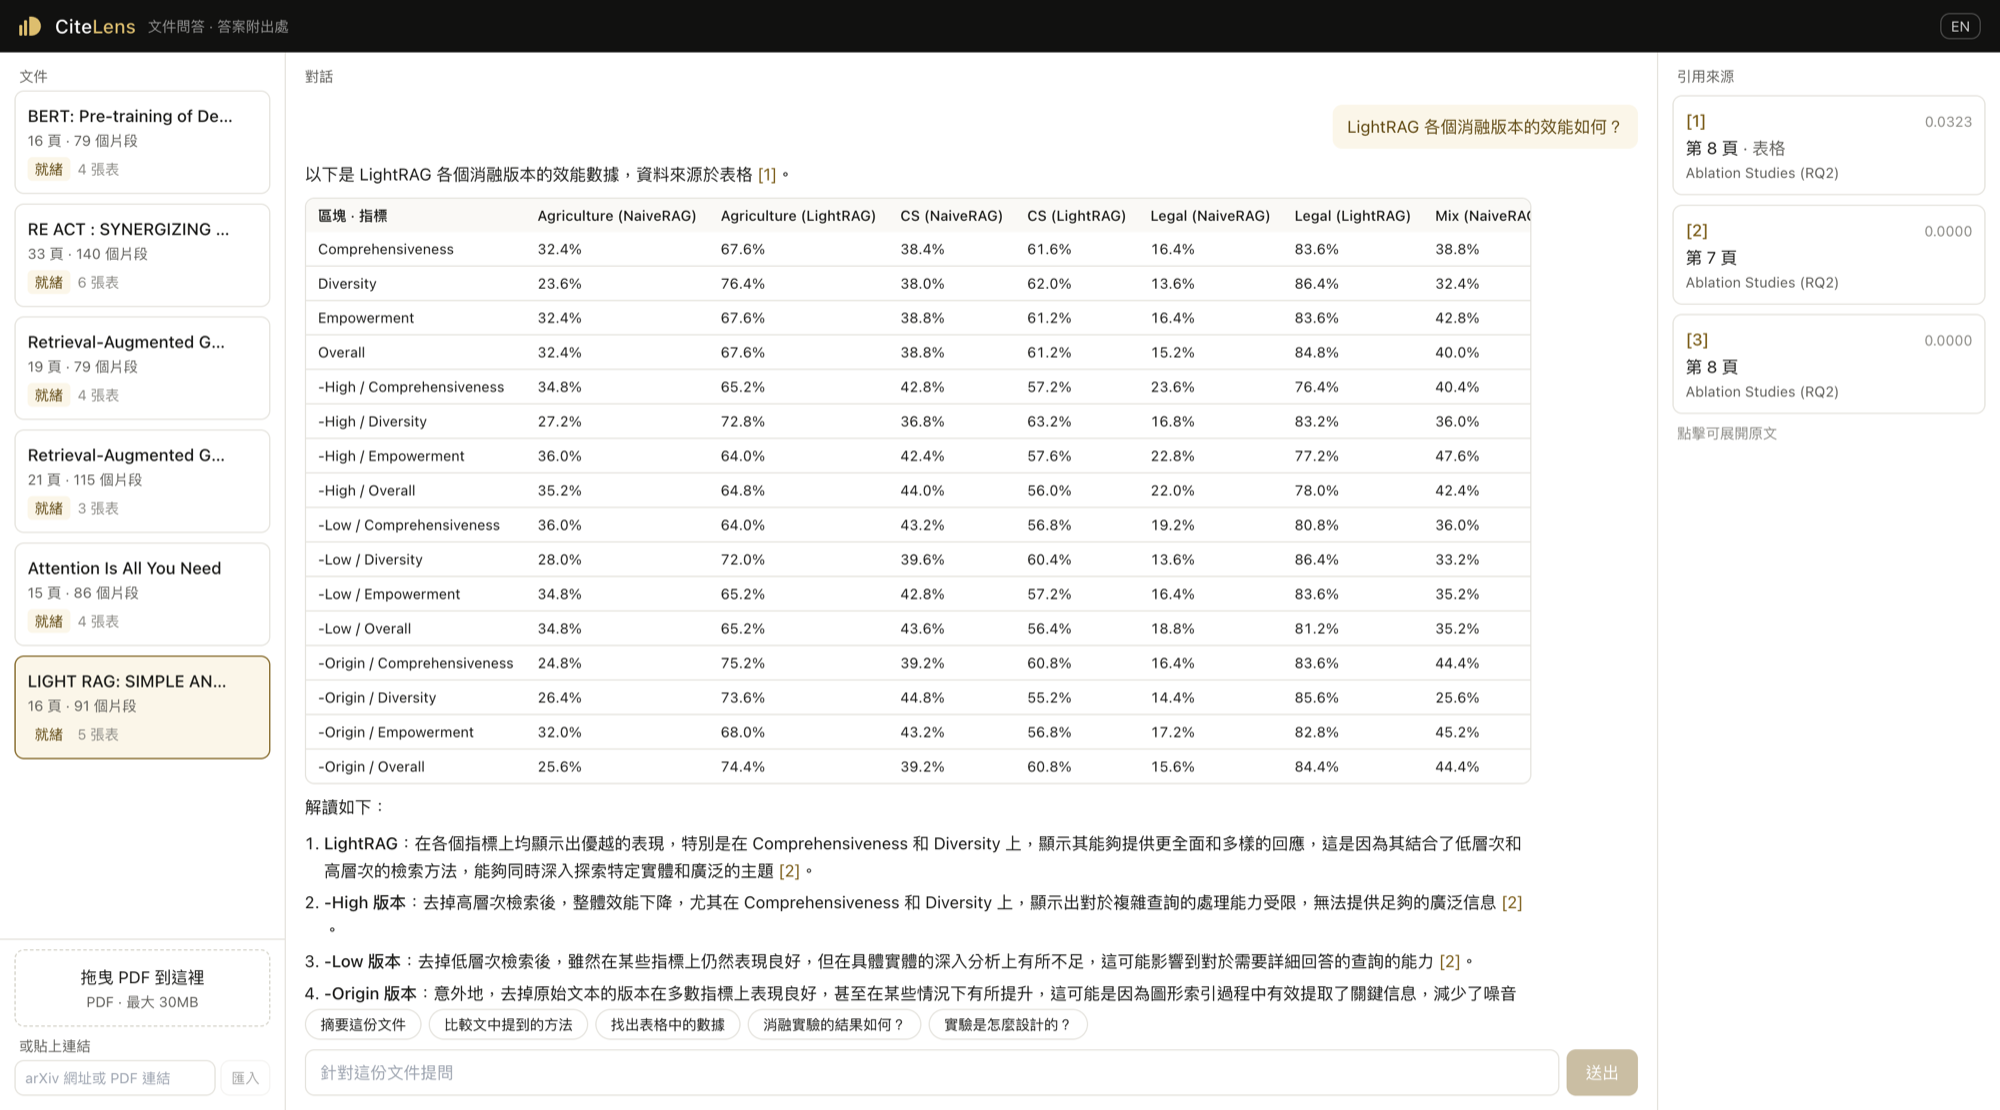
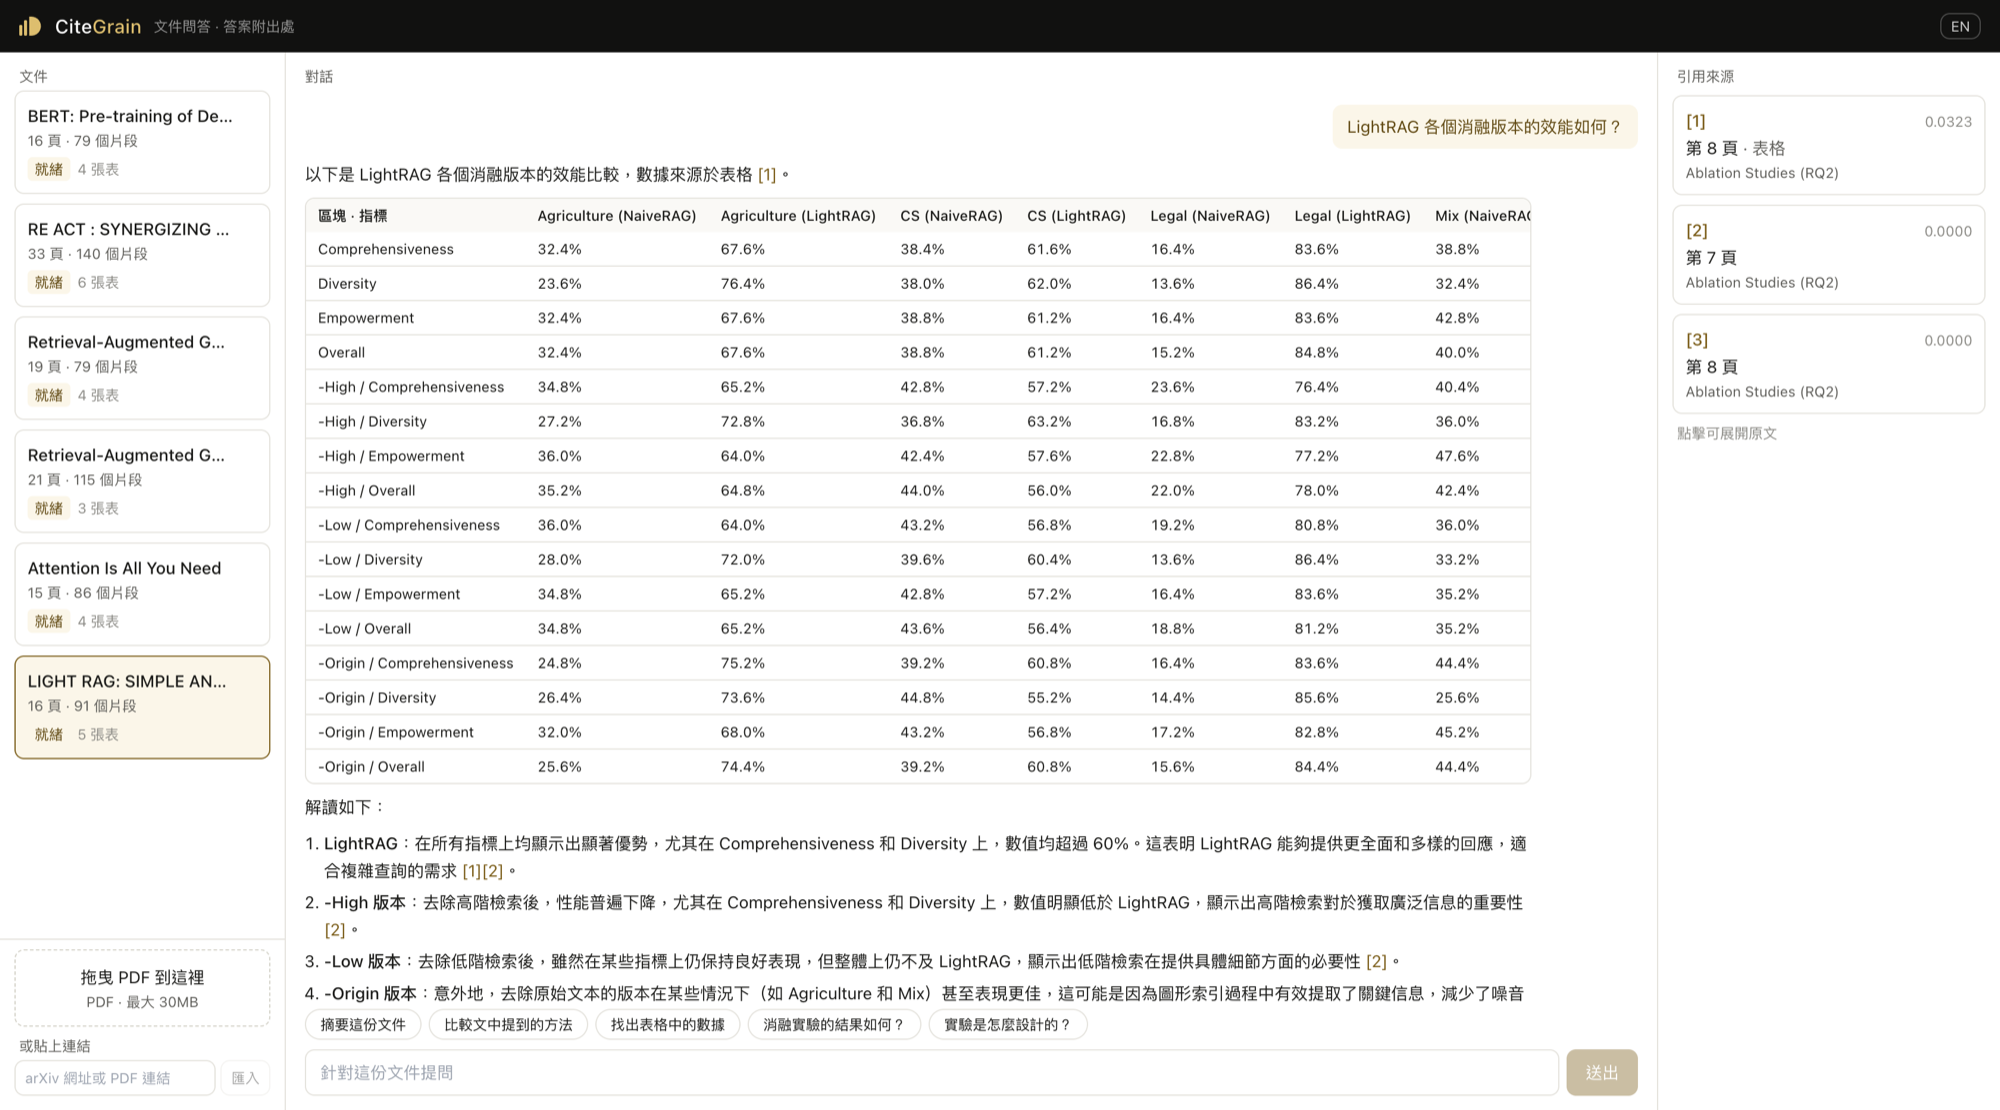
專案更名為 CiteGrain
CiteLens 撞名嚴重且都在同一個領域：MDPI 的學術引用偵測工具、
citelens.ai 的 GEO 平台。新名字取 citation granularity ——
這個系統引用到的不是「這份文件」，而是第幾頁、哪一節、表格的哪一列。

查證方式：網域（7 個 TLD）、GitHub / PyPI / npm、arXiv 與 ACL、
以及在地搜尋結果，四關皆空。過程中淘汰的候選包括撞到藥名的
（Refentra、Siglume、Siglade、Citelexa）與撞到既有 benchmark 的（TabCite）。

- 指標名稱 citelens_* → citegrain_*，Grafana 儀表板查詢同步更新
- 儀表板檔名與 Prometheus job 名稱一併更名
- 前端字樣、標題、sessionStorage 鍵、MCP server 名稱
- Demo 截圖重拍（實際跑一次指定的第三題）

順帶修掉一個一直存在的問題：index.html 從來沒有 <link rel="icon">，
所以分頁一直沒有圖示，而 public/favicon.svg 裡放的是 Vite 的預設圖。
現在改成專案自己的標記並正確引用。

驗證：68 項測試、端到端 76 項、check_docs、中英文簡報各 16 頁無溢出、
tsc -b 通過；具名卷未動，6 份既有索引與指標歷史保留。

diff --git a/frontend/src/App.tsx b/frontend/src/App.tsx
@@ -5,8 +5,8 @@ import { Chat, type Turn } from "./components/Chat";
 import { DocumentPanel, type Job } from "./components/DocumentPanel";
 import { SourcePanel } from "./components/SourcePanel";
 
-const LANG_KEY = "citelens.lang";
-const HISTORY_KEY = "citelens.history";
+const LANG_KEY = "citegrain.lang";
+const HISTORY_KEY = "citegrain.history";
 
 export default function App() {
   const [lang, setLang] = useState<Lang>(
@@ -234,7 +234,7 @@ export default function App() {
       <header className="flex items-center gap-2.5 px-4 py-2.5 bg-brand text-white">
         <Mark />
         <h1 className="text-base font-medium tracking-wide">
-          Cite<span className="text-accent-gold">Lens</span>
+          Cite<span className="text-accent-gold">Grain</span>
         </h1>
         <span className="text-xs text-white/55">{t.subtitle}</span>
         <button

diff --git a/frontend/index.html b/frontend/index.html
@@ -2,9 +2,9 @@
 <html lang="zh-Hant">
   <head>
     <meta charset="UTF-8" />
-    
+    <link rel="icon" type="image/svg+xml" href="/favicon.svg" />
     <meta name="viewport" content="width=device-width, initial-scale=1.0" />
-    <title>CiteLens · 文件問答</title>
+    <title>CiteGrain · 文件問答</title>
   </head>
   <body>
     <div id="root"></div>

diff --git a/ops/build_dashboard.py b/ops/build_dashboard.py
@@ -41,7 +41,7 @@ TOOLTIP = {"mode": "multi", "sort": "desc"}
 panels = [
     # ── 第一列：品質指標（離線評估）─────────────────────────────
     panel(1, "檢索準確度",
-          [target("citelens_eval_top3_rate", "{{config}}", instant=True)],
+          [target("citegrain_eval_top3_rate", "{{config}}", instant=True)],
           0, 0, 9, 7, "bargauge",
           desc="12 個測試問題中，目標章節進入前三名的比例。由 scripts/eval.py --publish 發布。",
           options={"displayMode": "basic", "orientation": "horizontal",
@@ -57,7 +57,7 @@ panels = [
                        "overrides": []}),
 
     panel(2, "表格解析結果",
-          [target("citelens_eval_tables", "{{state}}", instant=True)],
+          [target("citegrain_eval_tables", "{{state}}", instant=True)],
           9, 0, 8, 7, "bargauge",
           desc="四篇論文合計。數值型表格全數通過驗證；未通過者退回整表原文模式。",
           options={"displayMode": "basic", "orientation": "horizontal",
@@ -69,8 +69,8 @@ panels = [
                        "overrides": []}),
 
     panel(3, "有作答時的引用標註率",
-          [target('sum(citelens_answer_outcome_total{outcome="cited"}) / '
-                  'sum(citelens_answer_outcome_total{outcome=~"cited|uncited"})',
+          [target('sum(citegrain_answer_outcome_total{outcome="cited"}) / '
+                  'sum(citegrain_answer_outcome_total{outcome=~"cited|uncited"})',
                   "引用率", instant=True)],
           17, 0, 7, 7, "stat",
           desc="分母排除「文件未涵蓋」的正確拒答 —— 那類回答沒有可標註的來源。",
@@ -86,21 +86,21 @@ panels = [
 
     # ── 第二列：延遲 ──────────────────────────────────────────
     panel(4, "查詢量（依路由）",
-          [target("sum by (route) (increase(citelens_query_total[5m]))", "{{route}}")],
+          [target("sum by (route) (increase(citegrain_query_total[5m]))", "{{route}}")],
           0, 7, 8, 7, desc="三條路由各自的查詢量。分流有效時三者都會有量。",
           options={"legend": LEGEND, "tooltip": TOOLTIP},
           fieldConfig=series("short", decimals=0)),
 
     panel(5, "端到端延遲",
-          [target("histogram_quantile(0.5, sum(rate(citelens_request_seconds_bucket[10m])) by (le))", "p50"),
-           target("histogram_quantile(0.95, sum(rate(citelens_request_seconds_bucket[10m])) by (le))", "p95")],
+          [target("histogram_quantile(0.5, sum(rate(citegrain_request_seconds_bucket[10m])) by (le))", "p50"),
+           target("histogram_quantile(0.95, sum(rate(citegrain_request_seconds_bucket[10m])) by (le))", "p95")],
           8, 7, 8, 7, desc="使用者感受到的總時間。",
           options={"legend": LEGEND, "tooltip": TOOLTIP},
           fieldConfig=series("s", decimals=1)),
 
     panel(6, "延遲拆解：檢索 vs 生成",
-          [target("histogram_quantile(0.95, sum(rate(citelens_retrieval_seconds_bucket[10m])) by (le))", "檢索 p95"),
-           target("histogram_quantile(0.95, sum(rate(citelens_llm_seconds_bucket[10m])) by (le))", "生成 p95")],
+          [target("histogram_quantile(0.95, sum(rate(citegrain_retrieval_seconds_bucket[10m])) by (le))", "檢索 p95"),
+           target("histogram_quantile(0.95, sum(rate(citegrain_llm_seconds_bucket[10m])) by (le))", "生成 p95")],
           16, 7, 8, 7,
           desc="檢索貼著底部、生成在數秒之譜 —— 瓶頸在模型不在檢索。",
           options={"legend": LEGEND, "tooltip": TOOLTIP},
@@ -108,8 +108,8 @@ panels = [
 
     # ── 第三列：預算與成本 ────────────────────────────────────
     panel(7, "脈絡用量（上限 6,000 tokens）",
-          [target("histogram_quantile(0.5, sum(rate(citelens_context_tokens_bucket[10m])) by (le))", "p50"),
-           target("histogram_quantile(0.95, sum(rate(citelens_context_tokens_bucket[10m])) by (le))", "p95")],
+          [target("histogram_quantile(0.5, sum(rate(citegrain_context_tokens_bucket[10m])) by (le))", "p50"),
+           target("histogram_quantile(0.95, sum(rate(citegrain_context_tokens_bucket[10m])) by (le))", "p95")],
           0, 14, 9, 7,
           desc="檢索內容實際佔用的 token 數。不含系統提示與問題 —— "
                "那兩項另有保留額度，合計才是模型的 10,000 上限。",
@@ -125,8 +125,8 @@ panels = [
                        "overrides": []}),
 
     panel(8, "累計成本與查詢次數",
-          [target("citelens_cost_usd_total", "累計成本（USD）", instant=True),
-           target("sum(citelens_query_total)", "查詢次數", instant=True)],
+          [target("citegrain_cost_usd_total", "累計成本（USD）", instant=True),
+           target("sum(citegrain_query_total)", "查詢次數", instant=True)],
           9, 14, 8, 7, "stat",
           desc="索引階段不呼叫外部 API，成本僅來自查詢時的模型生成。",
           options={"reduceOptions": {"calcs": ["lastNotNull"], "fields": "", "values": False},
@@ -145,7 +145,7 @@ panels = [
                                                                      "fixedColor": GRAY}}]}]}),
 
     panel(9, "回答結果分布",
-          [target("citelens_answer_outcome_total", "{{outcome}}", instant=True)],
+          [target("citegrain_answer_outcome_total", "{{outcome}}", instant=True)],
           17, 14, 7, 7, "bargauge",
           desc="cited 有標註引用 · uncited 有作答但未標註 · declined 文件未涵蓋而如實拒答。",
           options={"displayMode": "basic", "orientation": "horizontal",
@@ -164,13 +164,13 @@ panels = [
 ]
 
 dashboard = {
-    "uid": "citelens", "title": "CiteLens", "tags": ["citelens"],
+    "uid": "citegrain", "title": "CiteGrain", "tags": ["citegrain"],
     "timezone": "browser", "schemaVersion": 39, "version": 2,
     "refresh": "10s", "editable": True,
     "time": {"from": "now-30m", "to": "now"},
     "panels": panels,
 }
 
-out = Path(__file__).parent / "grafana/provisioning/dashboards/citelens.json"
+out = Path(__file__).parent / "grafana/provisioning/dashboards/citegrain.json"
 out.write_text(json.dumps(dashboard, ensure_ascii=False, indent=2), encoding="utf-8")
 print(f"已產生 {out.name}：{len(panels)} 個面板，三列各 7 單位高")

diff --git a/backend/app/observability/prom.py b/backend/app/observability/prom.py
@@ -11,69 +11,69 @@ from prometheus_client import CollectorRegistry, Counter, Gauge, Histogram, gene
 REGISTRY = CollectorRegistry()
 
 QUERIES = Counter(
-    "citelens_query_total", "查詢次數", ["route"], registry=REGISTRY,
+    "citegrain_query_total", "查詢次數", ["route"], registry=REGISTRY,
 )
 DOCUMENTS = Counter(
-    "citelens_index_total", "建立索引次數", registry=REGISTRY,
+    "citegrain_index_total", "建立索引次數", registry=REGISTRY,
 )
 INDEX_API_CALLS = Counter(
-    "citelens_index_external_api_calls_total",
+    "citegrain_index_external_api_calls_total",
     "索引階段的外部 API 呼叫次數（本地向量化時恆為 0）", registry=REGISTRY,
 )
 TABLES = Counter(
-    "citelens_table_total", "偵測到的表格數", ["validated"], registry=REGISTRY,
+    "citegrain_table_total", "偵測到的表格數", ["validated"], registry=REGISTRY,
 )
 DROPPED = Counter(
-    "citelens_context_dropped_chunks_total", "因預算不足而捨棄的片段數", registry=REGISTRY,
+    "citegrain_context_dropped_chunks_total", "因預算不足而捨棄的片段數", registry=REGISTRY,
 )
 COST = Counter(
-    "citelens_cost_usd_total", "累計模型成本（USD）", registry=REGISTRY,
+    "citegrain_cost_usd_total", "累計模型成本（USD）", registry=REGISTRY,
 )
 CITED = Counter(
-    "citelens_answer_cited_total", "答案有標註引用編號的次數", ["cited"], registry=REGISTRY,
+    "citegrain_answer_cited_total", "答案有標註引用編號的次數", ["cited"], registry=REGISTRY,
 )
 OUTCOME = Counter(
-    "citelens_answer_outcome_total",
+    "citegrain_answer_outcome_total",
     "回答結果：cited 有標註引用、uncited 有作答但未標註、declined 文件未涵蓋",
     ["outcome"], registry=REGISTRY,
 )
 
 # --- 離線評估結果（由 scripts/eval.py 發布）---------------------------------
 EVAL_TOP3 = Gauge(
-    "citelens_eval_top3_rate", "目標章節進入前三名的比例", ["config"], registry=REGISTRY,
+    "citegrain_eval_top3_rate", "目標章節進入前三名的比例", ["config"], registry=REGISTRY,
 )
 EVAL_TOP3_COUNT = Gauge(
-    "citelens_eval_top3_hits", "目標章節進入前三名的題數", ["config"], registry=REGISTRY,
+    "citegrain_eval_top3_hits", "目標章節進入前三名的題數", ["config"], registry=REGISTRY,
 )
 EVAL_TOTAL = Gauge(
-    "citelens_eval_total_queries", "評估用的查詢總數", registry=REGISTRY,
+    "citegrain_eval_total_queries", "評估用的查詢總數", registry=REGISTRY,
 )
 EVAL_RANK = Gauge(
-    "citelens_eval_rank", "目標章節的名次（11 表示未進前十）", ["config", "query"],
+    "citegrain_eval_rank", "目標章節的名次（11 表示未進前十）", ["config", "query"],
     registry=REGISTRY,
 )
 EVAL_TABLES = Gauge(
-    "citelens_eval_tables", "表格解析結果", ["state"], registry=REGISTRY,
+    "citegrain_eval_tables", "表格解析結果", ["state"], registry=REGISTRY,
 )
 
 # 桶界依實測分布設定：檢索在數十毫秒，生成在數秒
 RETRIEVAL_SECONDS = Histogram(
-    "citelens_retrieval_seconds", "檢索耗時",
+    "citegrain_retrieval_seconds", "檢索耗時",
     buckets=(0.01, 0.025, 0.05, 0.1, 0.25, 0.5, 1, 2.5),
     registry=REGISTRY,
 )
 LLM_SECONDS = Histogram(
-    "citelens_llm_seconds", "模型生成耗時",
+    "citegrain_llm_seconds", "模型生成耗時",
     buckets=(0.5, 1, 2, 3, 5, 8, 12, 20, 30),
     registry=REGISTRY,
 )
 REQUEST_SECONDS = Histogram(
-    "citelens_request_seconds", "查詢端到端耗時",
+    "citegrain_request_seconds", "查詢端到端耗時",
     buckets=(0.5, 1, 2, 3, 5, 8, 12, 20, 30),
     registry=REGISTRY,
 )
 PROMPT_TOKENS = Histogram(
-    "citelens_prompt_tokens", "送進模型的 token 數（系統提示＋脈絡＋問題）",
+    "citegrain_prompt_tokens", "送進模型的 token 數（系統提示＋脈絡＋問題）",
     buckets=(500, 1000, 2000, 3000, 4000, 5000, 6000, 7000, 8000, 10000),
     registry=REGISTRY,
 )
@@ -81,12 +81,12 @@ PROMPT_TOKENS = Histogram(
 # 本來就會超過 7,000 的檢索預算 —— 拿它畫「脈絡用量」的面板，
 # 會讓圖表看起來剛好壓在上限線上，而說明文字寫著「從未觸及上限」。
 CONTEXT_TOKENS = Histogram(
-    "citelens_context_tokens", "檢索內容佔用的 token 數（上限為檢索預算）",
+    "citegrain_context_tokens", "檢索內容佔用的 token 數（上限為檢索預算）",
     buckets=(500, 1000, 1500, 2000, 3000, 4000, 5000, 6000, 6500, 7000),
     registry=REGISTRY,
 )
 INDEX_SECONDS = Histogram(
-    "citelens_index_seconds", "建立索引耗時",
+    "citegrain_index_seconds", "建立索引耗時",
     buckets=(1, 2, 5, 10, 20, 40, 80, 160),
     registry=REGISTRY,
 )

diff --git a/backend/app/mcp_server.py b/backend/app/mcp_server.py
@@ -129,7 +129,7 @@ async def serve() -> None:
             send({"jsonrpc": "2.0", "id": rid, "result": {
                 "protocolVersion": "2024-11-05",
                 "capabilities": {"tools": {}},
-                "serverInfo": {"name": "citelens", "version": "0.1.0"}}})
+                "serverInfo": {"name": "citegrain", "version": "0.1.0"}}})
         elif method == "tools/list":
             send({"jsonrpc": "2.0", "id": rid, "result": {"tools": TOOLS}})
         elif method == "tools/call":

diff --git a/backend/app/main.py b/backend/app/main.py
@@ -66,7 +66,7 @@ async def lifespan(_: FastAPI):
     yield
 
 
-app = FastAPI(title="CiteLens", version="0.1.0", lifespan=lifespan)
+app = FastAPI(title="CiteGrain", version="0.1.0", lifespan=lifespan)
 app.add_middleware(
     CORSMiddleware,
     allow_origins=["http://localhost:5173", "http://127.0.0.1:5173"],

diff --git a/README.md b/README.md
@@ -1,8 +1,8 @@
-# CiteLens
+# CiteGrain
 
 **受限脈絡下的長文件可追溯問答系統**
 
-CiteLens 是一套面向學術 PDF 的長文件問答系統。使用者可上傳 PDF 或貼入 arXiv 連結，
+CiteGrain 是一套面向學術 PDF 的長文件問答系統。使用者可上傳 PDF 或貼入 arXiv 連結，
 以自然語言提問，系統會根據文件內容回答並附上頁碼與章節來源。
 
 在 **10K tokens 的脈絡上限**下，系統以結構感知切分、混合檢索、token-aware context packing
@@ -25,7 +25,7 @@ CiteLens 是一套面向學術 PDF 的長文件問答系統。使用者可上傳
 
 ## Demo
 
-![CiteLens：以 LightRAG 論文回答消融實驗問題，右側為引用來源](docs/images/demo.png)
+![CiteGrain：以 LightRAG 論文回答消融實驗問題，右側為引用來源](docs/images/demo.png)
 
 左為文件清單、中為回答、右為引用來源。圖中的問題是作業指定的第三題
 （LightRAG 消融版本的效能），答案完全來自論文表格 —— 由系統還原並驗證後索引，
@@ -38,8 +38,8 @@ CiteLens 是一套面向學術 PDF 的長文件問答系統。使用者可上傳
 需求：Docker 與 Docker Compose。
 
 ```bash
-git clone https://github.com/Yunwcy/citelens.git
-cd citelens
+git clone https://github.com/Yunwcy/citegrain.git
+cd citegrain
 cp .env.example .env          # 填入 OPENAI_API_KEY
 docker compose up -d --build  # 首次約 3–5 分鐘，含下載本地向量化模型
 ```
@@ -78,7 +78,7 @@ cd frontend && npm install && npm run dev
 
 ## 系統架構
 
-![CiteLens 系統架構](docs/architecture.svg)
+![CiteGrain 系統架構](docs/architecture.svg)
 
 ```
 上傳 ─▶ 版面分析 ─▶ 章節偵測 ─▶ 表格抽取＋驗證 ─▶ 切塊 ─▶ 向量與 BM25 索引

diff --git a/docs/architecture.md b/docs/architecture.md
@@ -1,6 +1,6 @@
 # 系統架構
 
-本文件說明 CiteLens 的設計與實作。所有數字皆為實測值，重現指令見 README。
+本文件說明 CiteGrain 的設計與實作。所有數字皆為實測值，重現指令見 README。
 
 ---
 
@@ -10,7 +10,7 @@
 
 | 限制 | 對應設計 | 可驗證的證據 |
 |---|---|---|
-| 不得使用商用 API 解析文件 | 版面分析、章節偵測、表格抽取、向量化全部在本地執行 | `test_只有一個檔案能連到外部模型服務`；`/api/metrics` 的 `citelens_index_external_api_calls_total` 恆為 0 |
+| 不得使用商用 API 解析文件 | 版面分析、章節偵測、表格抽取、向量化全部在本地執行 | `test_只有一個檔案能連到外部模型服務`；`/api/metrics` 的 `citegrain_index_external_api_calls_total` 恆為 0 |
 | 語言模型只做 text-to-text | 全專案僅 `app/llm/client.py` 呼叫模型，介面只接受與回傳字串 | `test_模型介面只收字串只回字串`、`test_送進模型的訊息內容都是純文字` |
 | 假設脈絡上限 10K tokens | 檢索額度依每次請求的問題長度計算，一般情況為 6,000 tokens | `test_總量在最壞情況下也不超過作業上限`、`test_系統提示放得進保留額度` |
 
